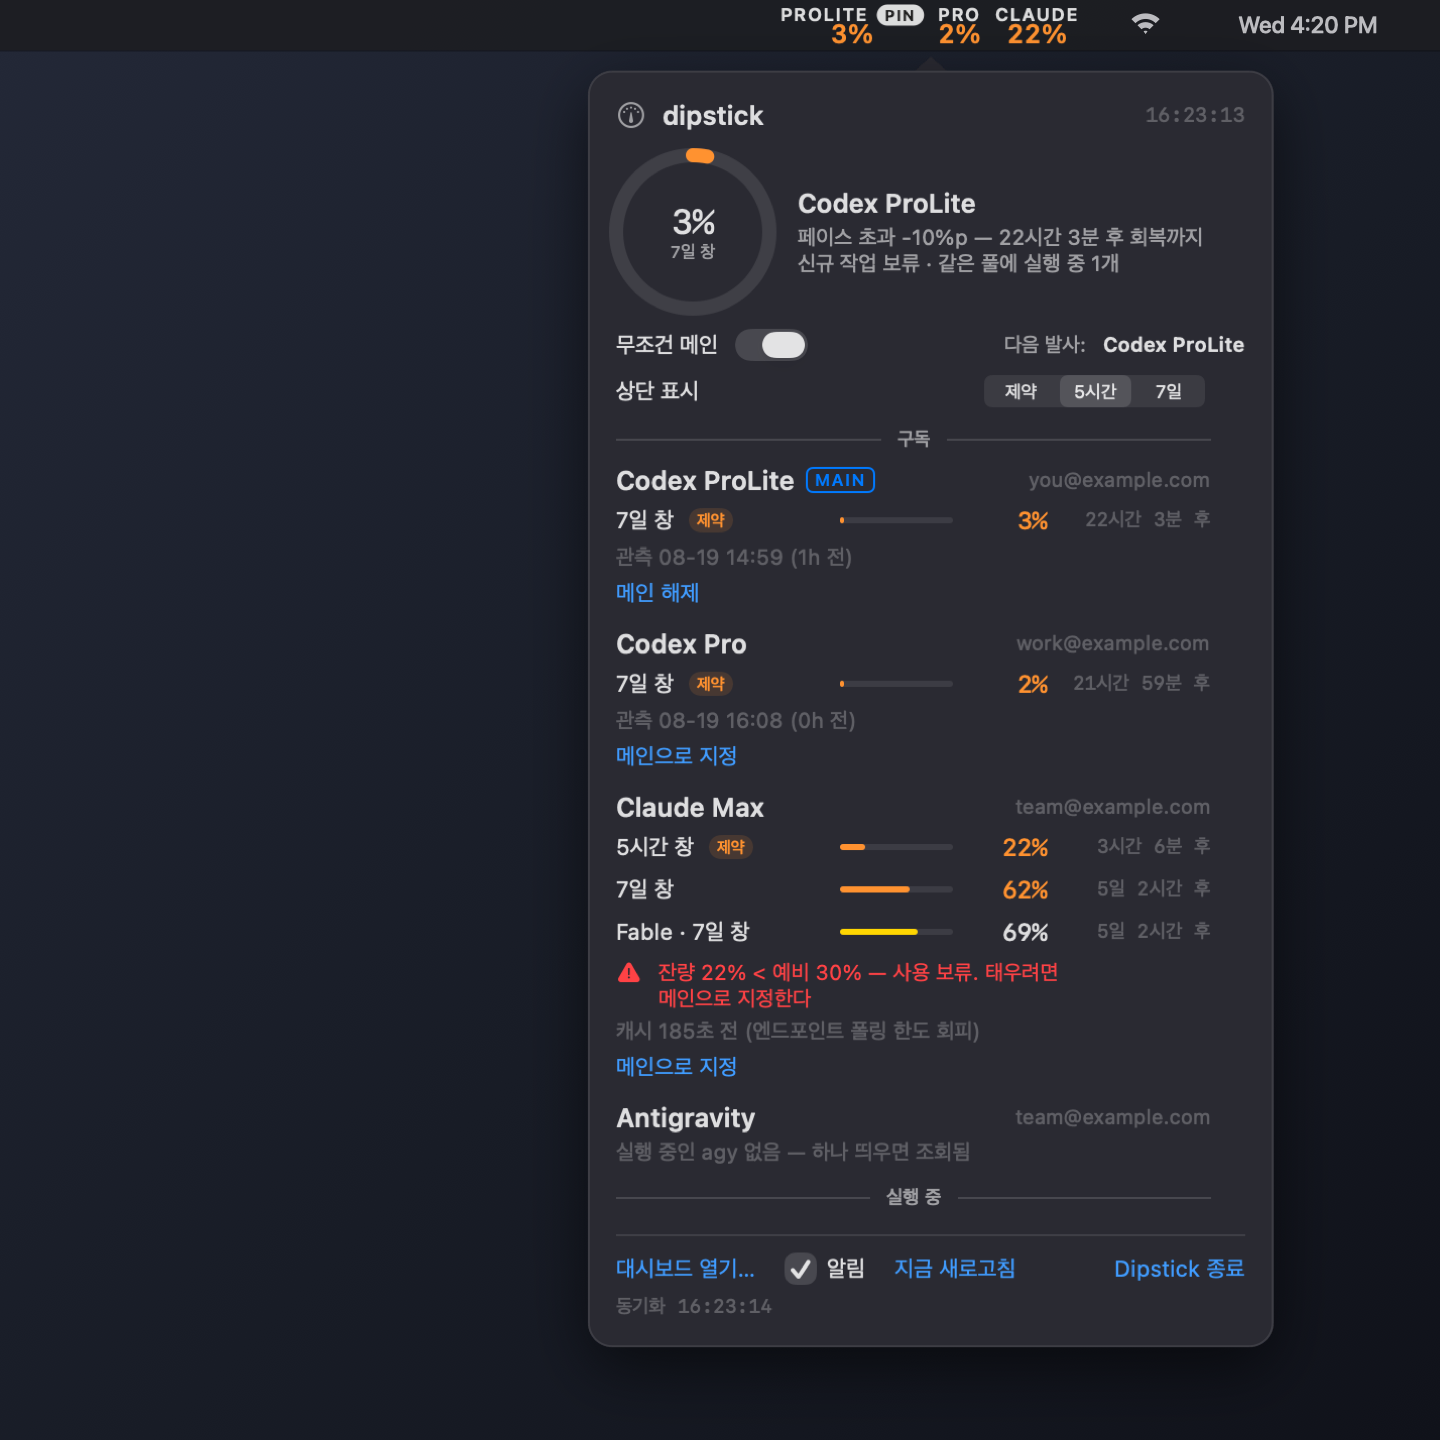
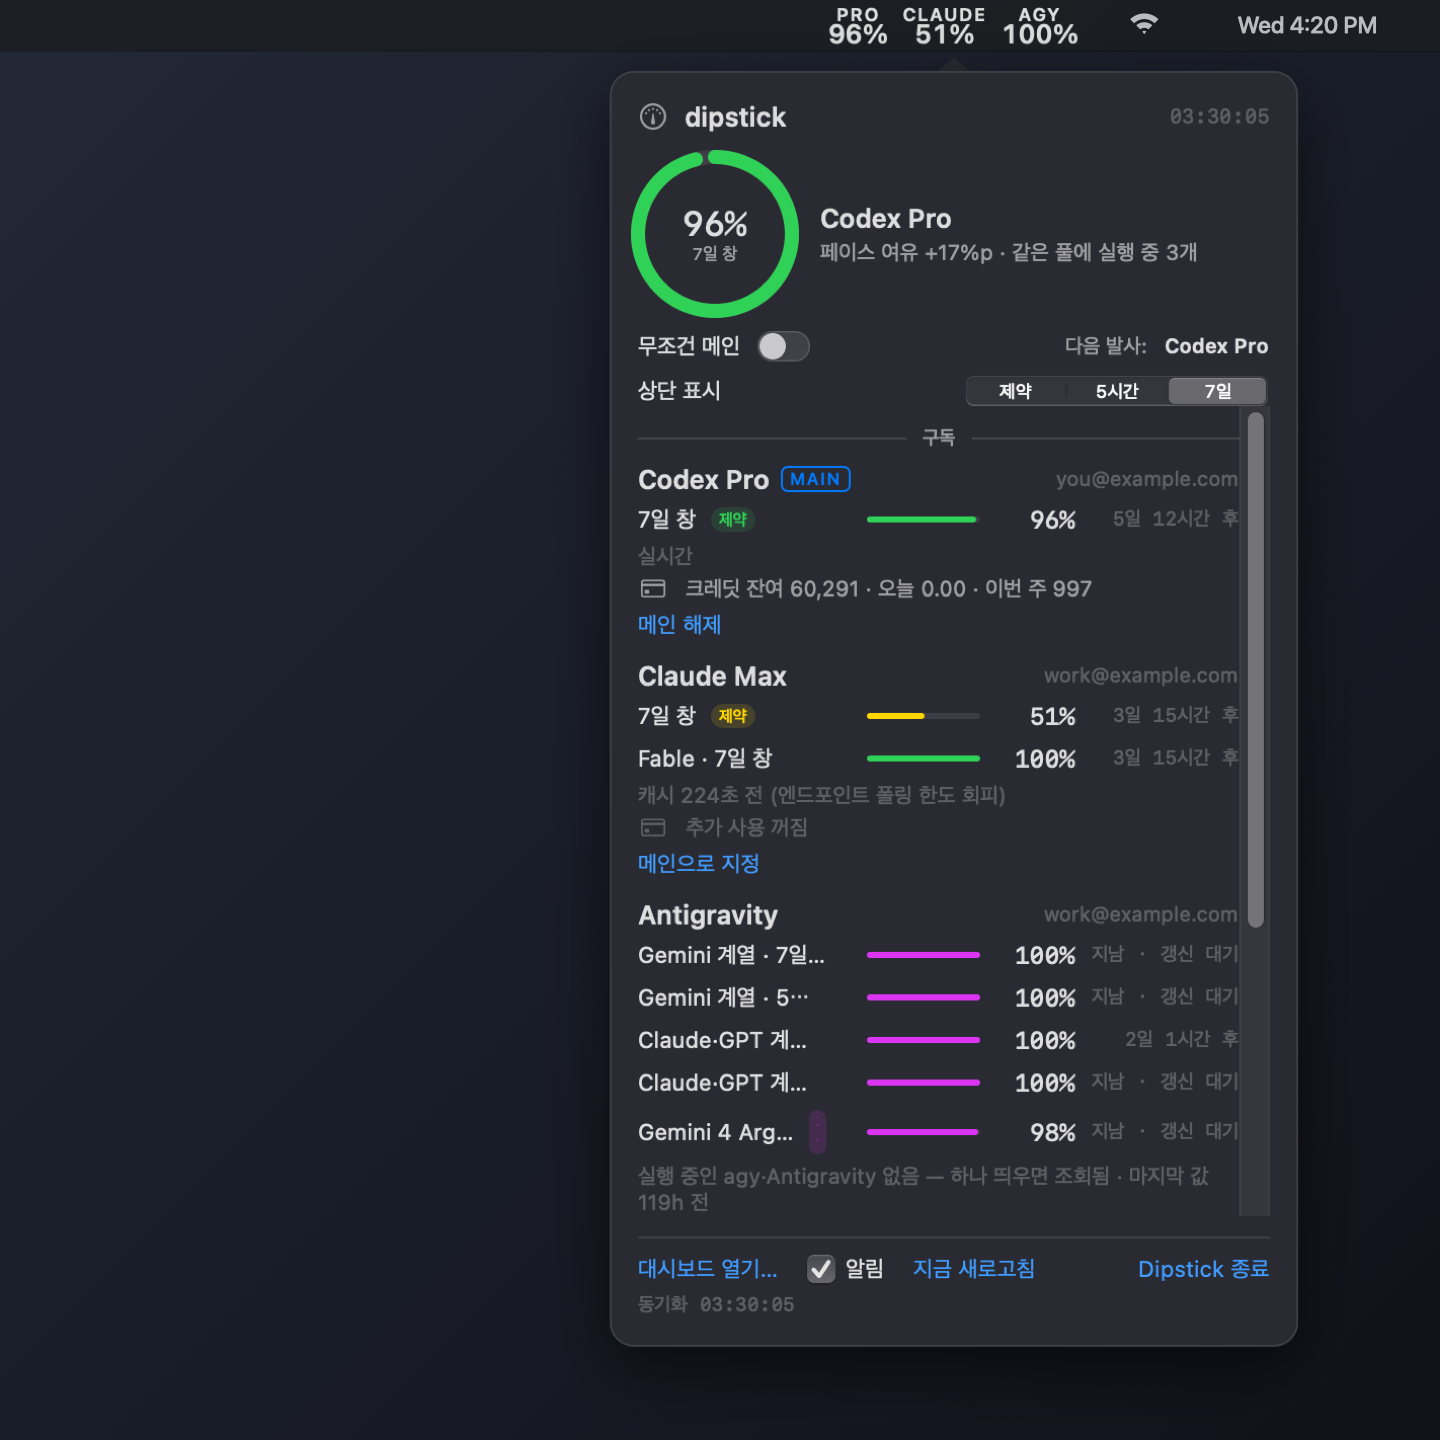
Treat Codex as one account per person
Codex is now one account per person, so showing several no longer means
anything. Only the chosen account is collected into the card list, menu bar,
statusline and pick; other logins left on the machine drop out of view. With
several logins and none chosen they all stay listed, because that is where the
choice is made, and --set-codex still sees every login.

The multi-account Codex guide is gone from both READMEs, including the
~/.codex-profiles recipe. Claude's second-account guide stays. The screenshot is
regenerated to match.

diff --git a/tests/test_codex_single.py b/tests/test_codex_single.py
@@ -49,4 +49,10 @@ assert dip.pick_launch(db, rows, "codex")[0] == "Codex Pro"
 
 # One account needs no choosing.
 assert dip.codex_selected(db, rows[:1]) == "Codex ProLite"
+# Only the chosen account is shown; with none chosen all stay, to choose from.
+assert [r["sub"] for r in dip.one_codex(db, rows)] == ["Codex Pro", "Claude Max"]
+dip.set_setting(db, "codex_account", "")
+dip.set_setting(db, "main", "Claude Max")
+assert len(dip.one_codex(db, rows)) == 3
+
 print("ok")

diff --git a/README.md b/README.md
@@ -30,10 +30,9 @@ friends are optional, and dipstick composes with them if you already run one
 
 <img src="assets/screenshot.png" width="620" alt="Menu bar showing three subscriptions, with the panel open below it">
 
-Three subscriptions across three accounts, read at once: two Codex plans and a
-Claude Max, each with its own login. The bar carries one figure apiece; the
-panel opens on click with every window, the pace surplus, the reserve floor and
-which pool the next launch would ride.
+Each subscription read at once, each with its own login. The bar carries one
+figure apiece; the panel opens on click with every window, the pace surplus, the
+reserve floor, credits and which pool the next launch would ride.
 
 **It never sends a prompt to a model.** Asking a model "how much do I have left"
 would open a fresh rate-limit window — the opposite of what a gauge should do. So
@@ -70,20 +69,14 @@ Any one of them is enough.
 
 ## Several accounts of the same tool
 
-Two subscriptions of the same vendor is the case dipstick is really for — one
-gauge, both pools, and a launch that rides whichever has room. Neither CLI has a
-profile switcher; both keep everything under a home directory named by an
-environment variable, so a second account is a second directory.
+Two subscriptions of the same vendor share one gauge, and a launch rides
+whichever has room. Claude Code has no profile switcher; it keeps everything
+under a directory named by an environment variable, so a second account is a
+second directory. Codex is the exception: it is one account per person, so
+dipstick shows and launches on exactly one
+([below](#pace-and-how-the-launch-target-is-chosen)).
 
-**Codex** — `CODEX_HOME` holds the login, the config and the session rollouts:
-
-```sh
-mkdir -p ~/.codex-profiles/work/home
-CODEX_HOME=~/.codex-profiles/work/home codex login     # log in as the other account
-alias codex-work='CODEX_HOME=~/.codex-profiles/work/home codex'
-```
-
-**Claude Code** — `CLAUDE_CONFIG_DIR` does the same. The login does not live in
+**Claude Code** — `CLAUDE_CONFIG_DIR` names the directory. The login does not live in
 the directory but in the login keychain, under an entry named for it
 (`Claude Code-credentials-<first 8 hex of sha256 of the absolute path>`), so
 each config dir gets its own session rather than overwriting the last:
@@ -93,9 +86,7 @@ CLAUDE_CONFIG_DIR=~/.claude-work claude          # first run asks you to log in
 alias claude-work='CLAUDE_CONFIG_DIR=~/.claude-work claude'
 ```
 
-dipstick finds these on its own: `~/.codex`, `~/.codex-profiles/*/home` and
-Orca-style `codex-accounts/*/home` for Codex, `~/.claude` and any sibling
-`~/.claude-*` for Claude. A home kept somewhere else is named in the config
+dipstick finds these on its own: `~/.claude` and any sibling `~/.claude-*`. A home kept somewhere else is named in the config
 file, and nothing else changes:
 
 ```json
@@ -112,14 +103,12 @@ dipstick needs no orchestrator — but if you already run one, the two compose
 cleanly because they hold opposite ends of the job: the wrapper owns *launching*
 into many accounts, dipstick owns *metering* them.
 
-Orca is the case it was built alongside. Orca keeps each
-Codex account under its own home (`codex-accounts/*/home`) and its Claude login
-in a managed keychain entry — dipstick reads both automatically, so every
-account Orca can launch into shows up as a card with no configuration. In the
-other direction, `$(dipstick --main-cmd)` drops into any command Orca (or a
-plain shell) runs, so the wrapper launches into whichever account the gauge says
-has room. Same shape for any other wrapper: point `claude_homes` or a
-`~/.codex-profiles/*/home` symlink at wherever it keeps its accounts.
+Orca is the case it was built alongside. Orca keeps its Codex login under its
+own home (`codex-accounts/*/home`) and its Claude login in a managed keychain
+entry — dipstick reads both automatically. In the other direction,
+`$(dipstick --main-cmd)` drops into any command Orca (or a plain shell) runs, so
+the wrapper launches into whichever account the gauge says has room. Same shape
+for any other wrapper: point `claude_homes` at wherever it keeps its accounts.
 
 ## Install
 
@@ -317,7 +306,7 @@ Everything below is optional — `~/.config/dipstick/config.json`:
 {
   "reserve": { "Claude": 30 },
   "policy": {
-    "Codex Pro": ["2nd", "when the smaller plan runs short"]
+    "Claude Max": ["2nd", "deadlines only"]
   },
   "imminent_minutes": 60
 }
@@ -365,12 +354,12 @@ compare directly; a subscription that has no window of that length (Codex meters
 a 7-day window only) falls back to its constraining window rather than vanishing
 from the bar. The panel has the same control.
 
-**Codex takes one account.** Every Codex account is read and shown, but launches
-only ever use the one you chose: pace never moves work to another Codex account,
-so one that runs out stops rather than switches. A Codex main is that choice;
-otherwise set it with `dipstick --set-codex KEY` or *Use this Codex* in the panel.
-With several accounts and none chosen, `--vendor codex` refuses to answer. MCP
-`can_i_start` reports the others as `NOT_SELECTED`.
+**Codex is one account per person.** dipstick shows that one account and
+launches only on it; pace never moves work elsewhere, so an account that runs
+out stops. If the machine still holds other Codex logins they drop out of view.
+A Codex main is the account; otherwise set it once with
+`dipstick --set-codex KEY`. With several logins and none chosen, all are listed
+so one can be picked, and `--vendor codex` refuses to answer.
 
 `--vendor` pins the **tool**. For Codex the answer is that one account; for
 others the account still follows the pick. If the main is pinned to a different
